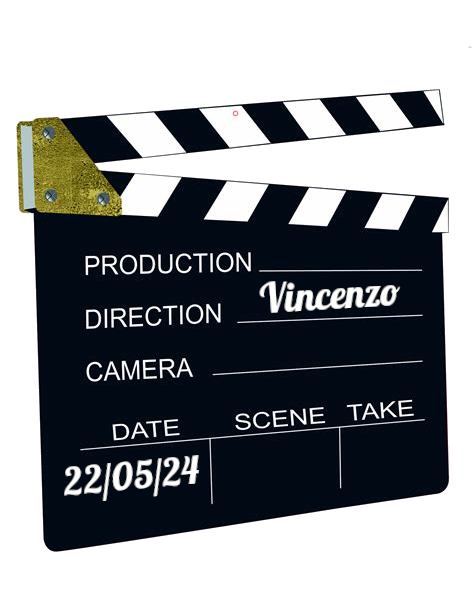
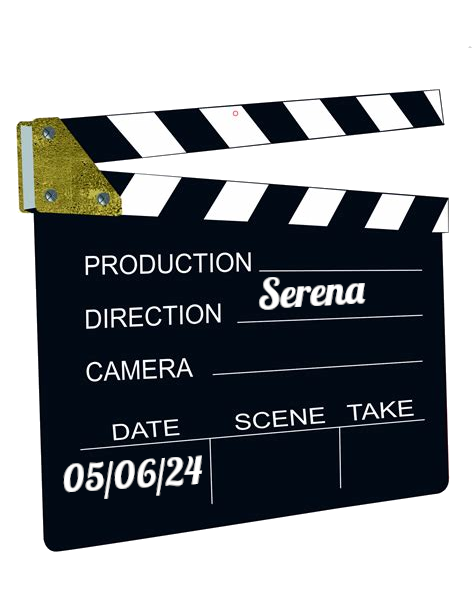
Tatami

Changed region(s): [[0.5316, 0.4332, 0.8565, 0.5261], [0.1181, 0.7427, 0.443, 0.8355]]

diff --git a/index.html b/index.html
@@ -38,8 +38,7 @@
 
 <br /><br /><hr width="90%"><hr width="90%"><br /><br />
 
-<!--
-<h1>Mercoled&igrave; 29 maggio 2024</h1>
+<h1>Mercoled&igrave; 5 giugno 2024</h1>
 
 <h2>Alle 20:30 in Via Nizza, 72</h2>
 
@@ -48,7 +47,6 @@
 <h2>Selezionatrice: <i>Serena</i></h2>
 
 <br /><br /><hr width="90%"><hr width="90%"><br /><br />
--->
 
 <h1>Mercoled&igrave; 29 maggio 2024</h1>
 
@@ -59,7 +57,7 @@
 
 <h2><i>In trasferta al <a href="https://www.cinemadelleprovincie.it/" target="_blank">Cinema delle Provincie</a></i></h2>
 
-<br /><br /><hr width="90%"><hr width="90%"><br /><br />
+<br /><br /><hr width="90%"><br /><br />
 
 <h1>Mercoled&igrave; 22 maggio 2024</h1>
 

diff --git a/movieslist.html b/movieslist.html
@@ -29,6 +29,17 @@ Rassegnamoci, Cineforum a Programma Variabile - Elenco Film
   </thead>
   <tbody>
     <tr>
+      <td>29-Mag-2024</td>
+      <td>Tatami - Una donna in lotta per la libertà</td>
+      <td>Jolly</td>
+      <td>-</td>
+      <td>2024</td>
+      <td>Guy Nattiv; Zar Amir Ebrahimi</td>
+      <td>105</td>
+      <td>GE; US</td>
+      <td><a href="https://www.imdb.com/title/tt26674818" target="_blank">https://www.imdb.com/title/tt26674818</a></td>
+    </tr>
+    <tr>
       <td>22-Mag-2024</td>
       <td>Animali selvatici</td>
       <td>Vincenzo</td>
